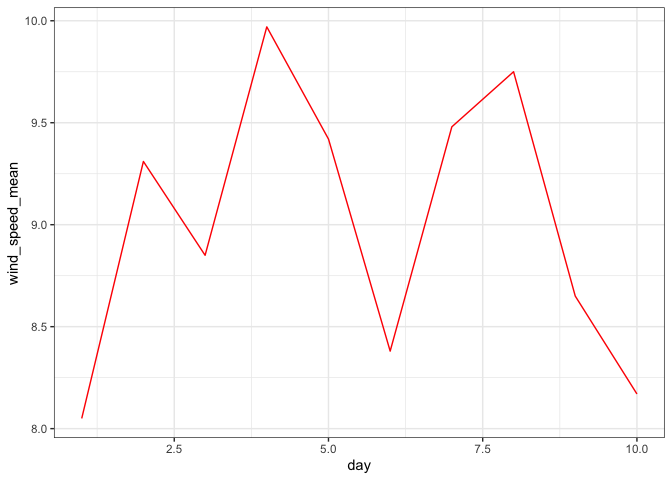
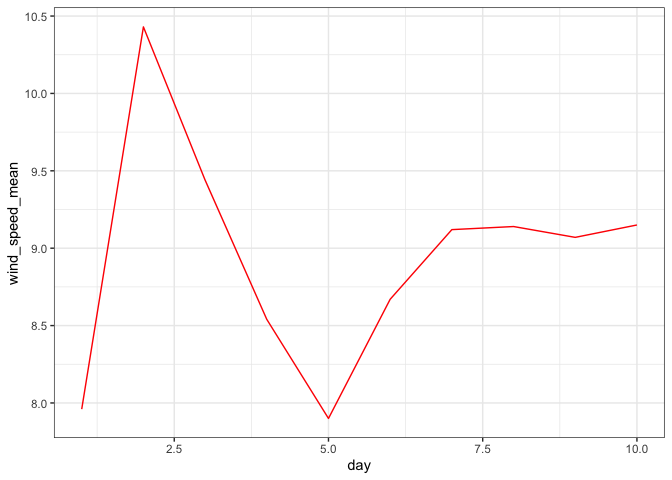
corrected spelling errors

diff --git a/vector-avg-wind-direction.md b/vector-avg-wind-direction.md
@@ -6,20 +6,21 @@ Beau Larkin
 # Description
 
 Wind direction is usually reported in degrees, which presents a problem
-for calculating averages. If the wind direction for a give time period
-varied bewteen 340 and 20 degrees, the average direction near north, but
-taking the average of 340 and 20 equals 180, or south. To produce a
+for calculating an average. For example, if the wind direction for a
+given period varied between 340 and 20 degrees, the average direction
+over that period should be near north (zero degrees), but taking the
+arithmetic average of 340 and 20 equals 180, or south. To produce a
 meaningful average of wind direction, we must use vector functions to
 decompose degrees into longitudinal and latitudinal dimensions,
 calculate the average (and/or a measure of variability), and recombine
 them to report the result in degrees.
 
-Simply calculating the vector average of wind direction will result in
-an incomplete average, however. We will also take into account the wind
-speed, which acts as a weight on direction. For example, if the wind
-blows gently from the east for half of a day, and strongly from the
-north for half of the day, we would expect the average to be closer to
-north than to east.
+Simply calculating the vector average of wind direction fails to take
+advantage of other information at our disposal, however. We will also
+take into account the wind speed, which acts as a weight on direction.
+For example, if the wind blows gently from the east for half of a day,
+and strongly from the north for half of the day, we would expect the
+average to be closer to north than to east.
 
 ## Citation
 
@@ -34,14 +35,14 @@ library(knitr)
 library(tidyverse)
 ```
 
-    ## ── Attaching packages ────────────────────────────────────────────────────────────────────────────── tidyverse 1.3.0 ──
+    ## ── Attaching packages ─────────────────────────────────────── tidyverse 1.3.0 ──
 
-    ## ✓ ggplot2 3.3.2     ✓ purrr   0.3.4
-    ## ✓ tibble  3.0.3     ✓ dplyr   1.0.1
-    ## ✓ tidyr   1.1.1     ✓ stringr 1.4.0
-    ## ✓ readr   1.3.1     ✓ forcats 0.5.0
+    ## ✓ ggplot2 3.3.3     ✓ purrr   0.3.4
+    ## ✓ tibble  3.1.0     ✓ dplyr   1.0.5
+    ## ✓ tidyr   1.1.3     ✓ stringr 1.4.0
+    ## ✓ readr   1.4.0     ✓ forcats 0.5.0
 
-    ## ── Conflicts ───────────────────────────────────────────────────────────────────────────────── tidyverse_conflicts() ──
+    ## ── Conflicts ────────────────────────────────────────── tidyverse_conflicts() ──
     ## x dplyr::filter() masks stats::filter()
     ## x dplyr::lag()    masks stats::lag()
 
@@ -50,13 +51,13 @@ library(tidyverse)
 ## Wind directions
 
 We will be working with data obtained via API from [Davis Instruments
-Weatherlink](https://www.davisinstruments.com/weatherlink-cloud/). Our
+Weatherlink](https://www.davisinstruments.com/weatherlink-cloud/). The
 API returns wind direction data that are binned into 16 compass
 directions, and the compass directions are represented either as text or
-as an integer in c(0, 15). Translating these stored variables into
-degrees will require translation. Note: we need to find out whether the
-mapping used by Davis follows the following schema before implementing
-this script with real data.
+as an integer in \[0, 15\]. These integers must be translated into
+degree equivalents before other calculations can be made. We have
+confirmed with Davis Instruments that the integer values map to degrees
+in the order shown in the following code.
 
 ``` r
 wind_dir <-
@@ -94,7 +95,7 @@ wind_dir %>% kable()
 
 ### Example weather data
 
-Data used in this example includes 1000 rows, split into ten “days” with
+Data used in this example include 1000 rows, split into ten “days” with
 100 values for each day. Wind speed is sampled from an integer vector
 and for this example is unitless. The wind direction data are sampled
 from the `wind_dir` data frame.
@@ -111,11 +112,11 @@ weather_data <-
 
     ## Rows: 1,000
     ## Columns: 5
-    ## $ day          <int> 1, 1, 1, 1, 1, 1, 1, 1, 1, 1, 1, 1, 1, 1, 1, 1, 1, 1, 1,…
-    ## $ wind_speed   <int> 7, 12, 1, 4, 17, 2, 3, 17, 14, 1, 4, 4, 3, 0, 0, 3, 8, 1…
-    ## $ wdir_integer <int> 11, 13, 13, 3, 11, 4, 12, 7, 2, 6, 8, 0, 8, 5, 2, 13, 10…
-    ## $ wdir_text    <chr> "WSW", "WNW", "WNW", "ENE", "WSW", "E", "W", "SSE", "NE"…
-    ## $ wdir_degree  <dbl> 247.5, 292.5, 292.5, 67.5, 247.5, 90.0, 270.0, 157.5, 45…
+    ## $ day          <int> 1, 1, 1, 1, 1, 1, 1, 1, 1, 1, 1, 1, 1, 1, 1, 1, 1, 1, 1, …
+    ## $ wind_speed   <int> 18, 10, 1, 4, 2, 5, 13, 11, 4, 8, 8, 16, 7, 9, 1, 14, 3, …
+    ## $ wdir_integer <int> 14, 5, 10, 7, 1, 7, 10, 15, 1, 5, 8, 8, 14, 2, 11, 13, 5,…
+    ## $ wdir_text    <chr> "NW", "ESE", "SW", "SSE", "NNE", "SSE", "SW", "NNW", "NNE…
+    ## $ wdir_degree  <dbl> 315.0, 112.5, 225.0, 157.5, 22.5, 157.5, 225.0, 337.5, 22…
 
 ### Vector averaging and results
 
@@ -135,13 +136,13 @@ weather_data %>% glimpse()
 
     ## Rows: 1,000
     ## Columns: 7
-    ## $ day          <int> 1, 1, 1, 1, 1, 1, 1, 1, 1, 1, 1, 1, 1, 1, 1, 1, 1, 1, 1,…
-    ## $ wind_speed   <int> 7, 12, 1, 4, 17, 2, 3, 17, 14, 1, 4, 4, 3, 0, 0, 3, 8, 1…
-    ## $ wdir_integer <int> 11, 13, 13, 3, 11, 4, 12, 7, 2, 6, 8, 0, 8, 5, 2, 13, 10…
-    ## $ wdir_text    <chr> "WSW", "WNW", "WNW", "ENE", "WSW", "E", "W", "SSE", "NE"…
-    ## $ wdir_degree  <dbl> 247.5, 292.5, 292.5, 67.5, 247.5, 90.0, 270.0, 157.5, 45…
-    ## $ wdir_u       <dbl> 6.467157e+00, 1.108655e+01, 9.238795e-01, -3.695518e+00,…
-    ## $ wdir_v       <dbl> 2.678784e+00, -4.592201e+00, -3.826834e-01, -1.530734e+0…
+    ## $ day          <int> 1, 1, 1, 1, 1, 1, 1, 1, 1, 1, 1, 1, 1, 1, 1, 1, 1, 1, 1, …
+    ## $ wind_speed   <int> 18, 10, 1, 4, 2, 5, 13, 11, 4, 8, 8, 16, 7, 9, 1, 14, 3, …
+    ## $ wdir_integer <int> 14, 5, 10, 7, 1, 7, 10, 15, 1, 5, 8, 8, 14, 2, 11, 13, 5,…
+    ## $ wdir_text    <chr> "NW", "ESE", "SW", "SSE", "NNE", "SSE", "SW", "NNW", "NNE…
+    ## $ wdir_degree  <dbl> 315.0, 112.5, 225.0, 157.5, 22.5, 157.5, 225.0, 337.5, 22…
+    ## $ wdir_u       <dbl> 1.272792e+01, -9.238795e+00, 7.071068e-01, -1.530734e+00,…
+    ## $ wdir_v       <dbl> -1.272792e+01, 3.826834e+00, 7.071068e-01, 3.695518e+00, …
 
 ``` r
 ## Calculate the average of wind vectors, grouped by time (in this case, "day")
@@ -160,20 +161,20 @@ weather_summary %>% kable()
 
 | day | wind\_speed\_mean | wdir\_u\_mean | wdir\_v\_mean | wdir\_deg\_avg |
 |----:|------------------:|--------------:|--------------:|---------------:|
-|   1 |              8.05 |     1.3344228 |     0.3972995 |      253.42008 |
-|   2 |              9.31 |     1.0013527 |     0.7435443 |      233.40464 |
-|   3 |              8.85 |    -0.5893885 |    -1.3606381 |       23.42084 |
-|   4 |              9.97 |     1.0747253 |     0.2608611 |      256.35681 |
-|   5 |              9.42 |     0.2855054 |     0.1612130 |      240.54840 |
-|   6 |              8.38 |     0.4539446 |    -0.3957596 |      311.08269 |
-|   7 |              9.48 |     0.1344847 |    -0.0949312 |      305.21783 |
-|   8 |              9.75 |     1.2204521 |     0.0455732 |      267.86150 |
-|   9 |              8.65 |     0.4485593 |     0.9260219 |      205.84526 |
-|  10 |              8.17 |     0.2491467 |    -0.1142754 |      294.63937 |
+|   1 |              7.96 |    -0.0670350 |     0.6332023 |      173.95679 |
+|   2 |             10.43 |     0.1480622 |    -0.3395205 |      336.43836 |
+|   3 |              9.44 |    -0.7203740 |     0.1163207 |       99.17253 |
+|   4 |              8.54 |    -0.8312698 |    -1.0027136 |       39.65942 |
+|   5 |              7.90 |     0.5941624 |     0.0001448 |      269.98604 |
+|   6 |              8.67 |     0.7982103 |     0.6269406 |      231.85275 |
+|   7 |              9.12 |     1.0937407 |    -0.0001237 |      270.00648 |
+|   8 |              9.14 |    -0.4085479 |    -0.1993275 |       63.99260 |
+|   9 |              9.07 |    -0.2400419 |     0.9383821 |      165.65120 |
+|  10 |              9.15 |     0.5248598 |     0.5170898 |      225.42726 |
 
 It is possible to calculate the standard deviation of wind speed and
 wind direction, but implementing this will take additional work.
-Applying standard deviations to wind direction mean that the y axis in
+Applying standard deviations to wind direction means that the y axis in
 figures will extend above 360 and below 0, which seems inappropriate.
 For wind speed, we also will be able to display max and min wind speed,
 if desired, alleviating the need for a measure of variability.
@@ -230,7 +231,7 @@ The result should be close to 360 and not close to the average of
 (atan2(mean(u), mean(v)) * 360 / 2 / pi) + 180
 ```
 
-    ## [1] 1.201419
+    ## [1] 357.1237
 
 ``` r
 ## Arithmetic mean of vector:
